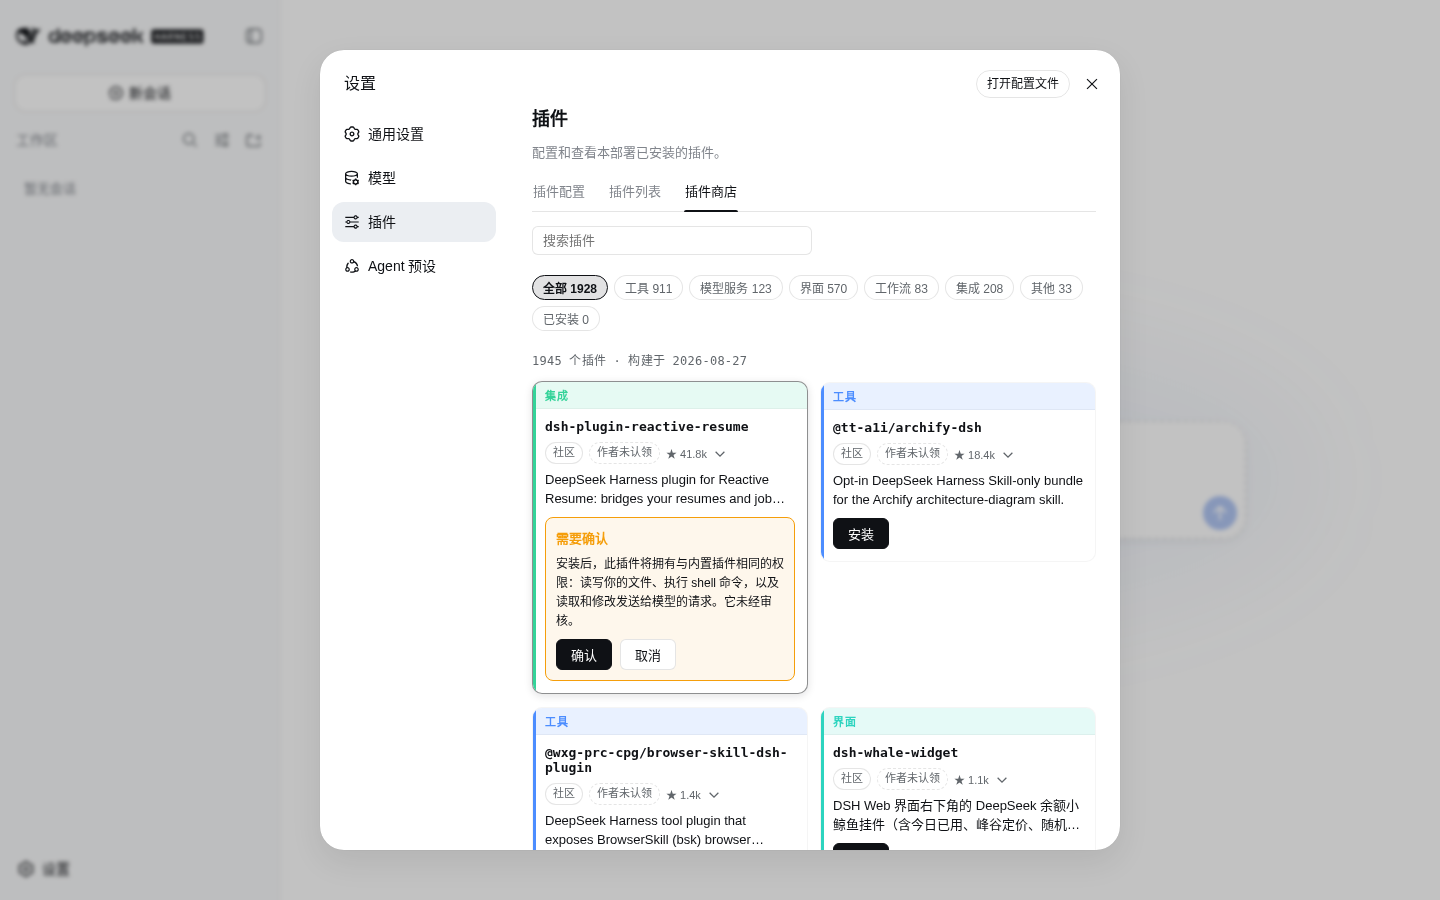
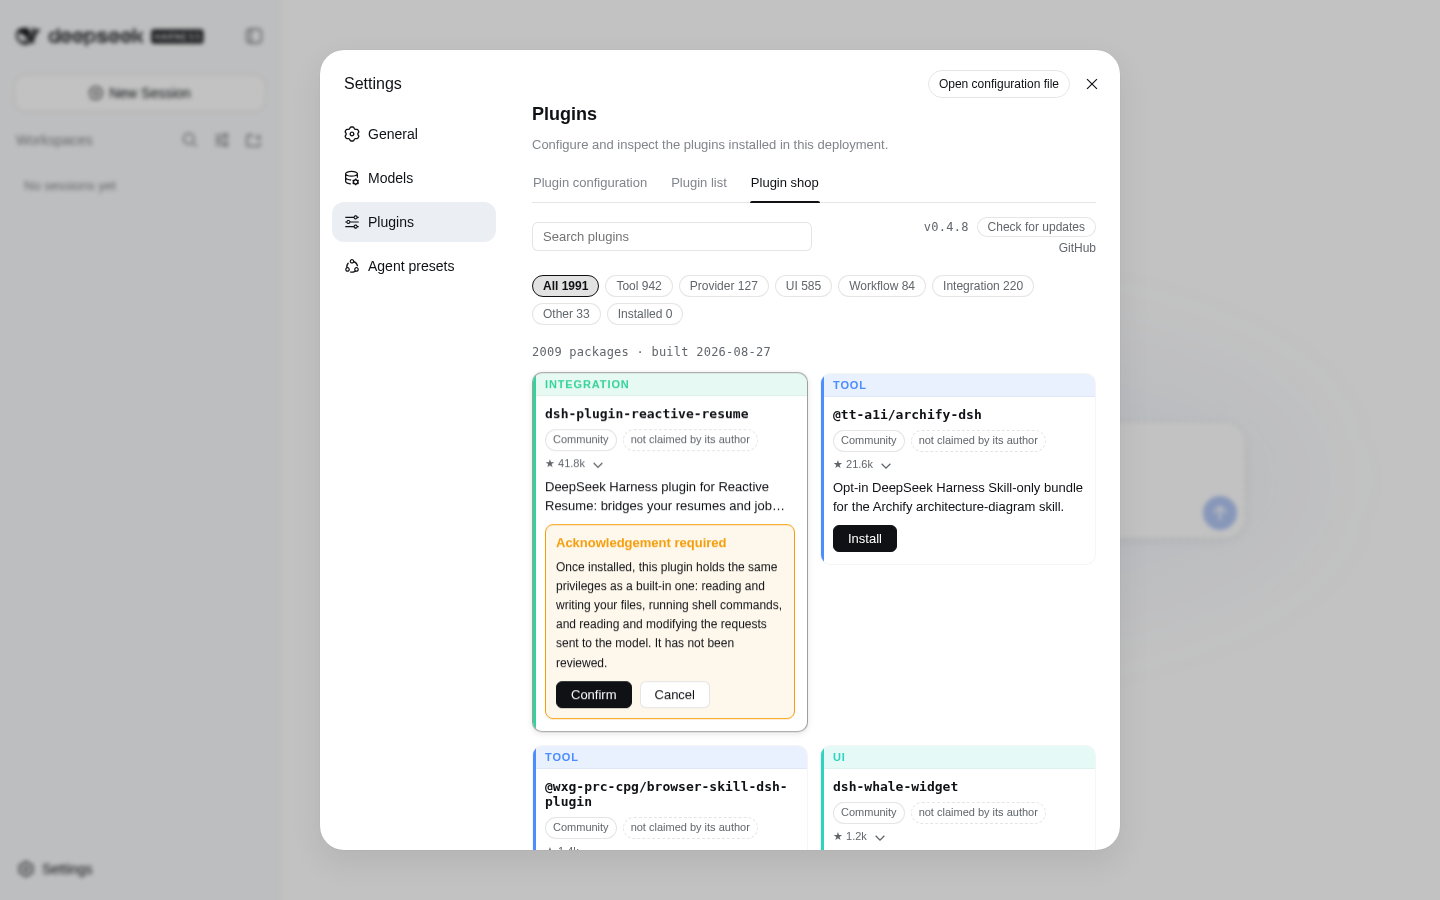
docs: bilingual README screenshots, zh READMEs get their own set
Recaptured the three shop shots in both shipped locales from an isolated
instance — English UI for the English READMEs, Chinese UI for the zh
ones (the app delegates locale to the browser, so two contexts over one
boot). The zh set ships as *.zh.png and the zh READMEs point at it.

diff --git a/packages/dsh-plugin-shop/docs/README.zh.md b/packages/dsh-plugin-shop/docs/README.zh.md
@@ -19,13 +19,13 @@
 ## 🖼 界面预览
 
 <div align="center">
-<img src="https://raw.githubusercontent.com/LivXue/dsh-plugin-shop/main/docs/images/shelf-light.png" alt="dsh 设置页里的插件商店货架" width="860">
+<img src="https://raw.githubusercontent.com/LivXue/dsh-plugin-shop/main/docs/images/shelf-light.zh.png" alt="dsh 设置页里的插件商店货架" width="860">
 </div>
 
 <table>
 <tr>
-<td width="50%"><img src="https://raw.githubusercontent.com/LivXue/dsh-plugin-shop/main/docs/images/gate-light.png" alt="安装未评审插件需要显式确认"></td>
-<td width="50%"><img src="https://raw.githubusercontent.com/LivXue/dsh-plugin-shop/main/docs/images/shelf-dark.png" alt="深色主题下的同一片货架"></td>
+<td width="50%"><img src="https://raw.githubusercontent.com/LivXue/dsh-plugin-shop/main/docs/images/gate-light.zh.png" alt="安装未评审插件需要显式确认"></td>
+<td width="50%"><img src="https://raw.githubusercontent.com/LivXue/dsh-plugin-shop/main/docs/images/shelf-dark.zh.png" alt="深色主题下的同一片货架"></td>
 </tr>
 <tr>
 <td align="center"><sub>安装未评审插件需要显式确认</sub></td>

diff --git a/README.zh.md b/README.zh.md
@@ -19,13 +19,13 @@
 ## 🖼 界面预览
 
 <div align="center">
-<img src="docs/images/shelf-light.png" alt="dsh 设置页里的插件商店货架" width="860">
+<img src="docs/images/shelf-light.zh.png" alt="dsh 设置页里的插件商店货架" width="860">
 </div>
 
 <table>
 <tr>
-<td width="50%"><img src="docs/images/gate-light.png" alt="安装未评审插件需要显式确认"></td>
-<td width="50%"><img src="docs/images/shelf-dark.png" alt="深色主题下的同一片货架"></td>
+<td width="50%"><img src="docs/images/gate-light.zh.png" alt="安装未评审插件需要显式确认"></td>
+<td width="50%"><img src="docs/images/shelf-dark.zh.png" alt="深色主题下的同一片货架"></td>
 </tr>
 <tr>
 <td align="center"><sub>安装未评审插件需要显式确认</sub></td>
